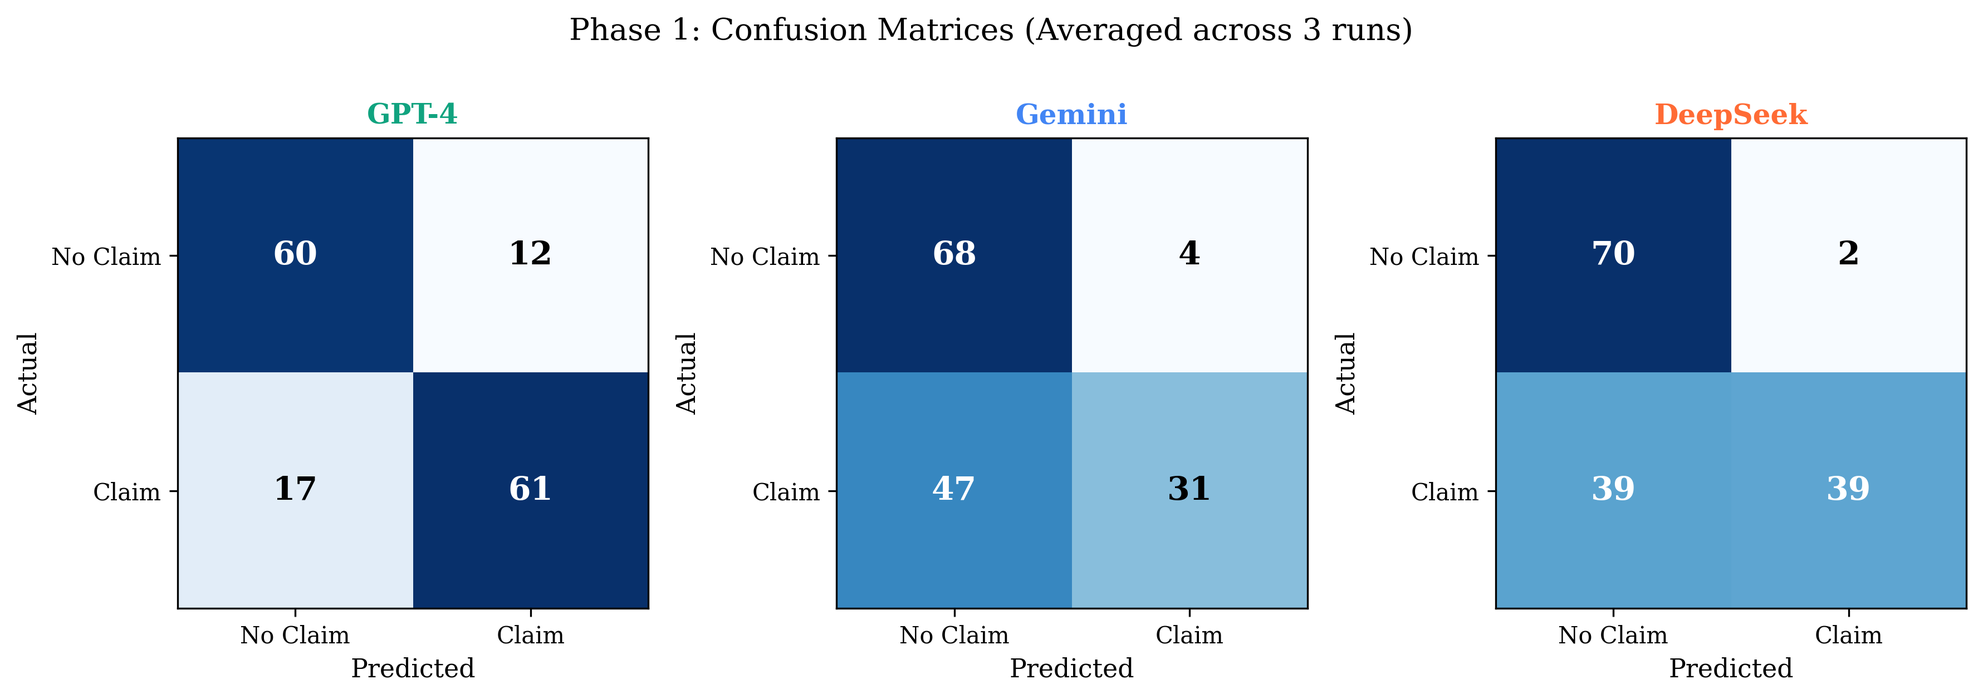
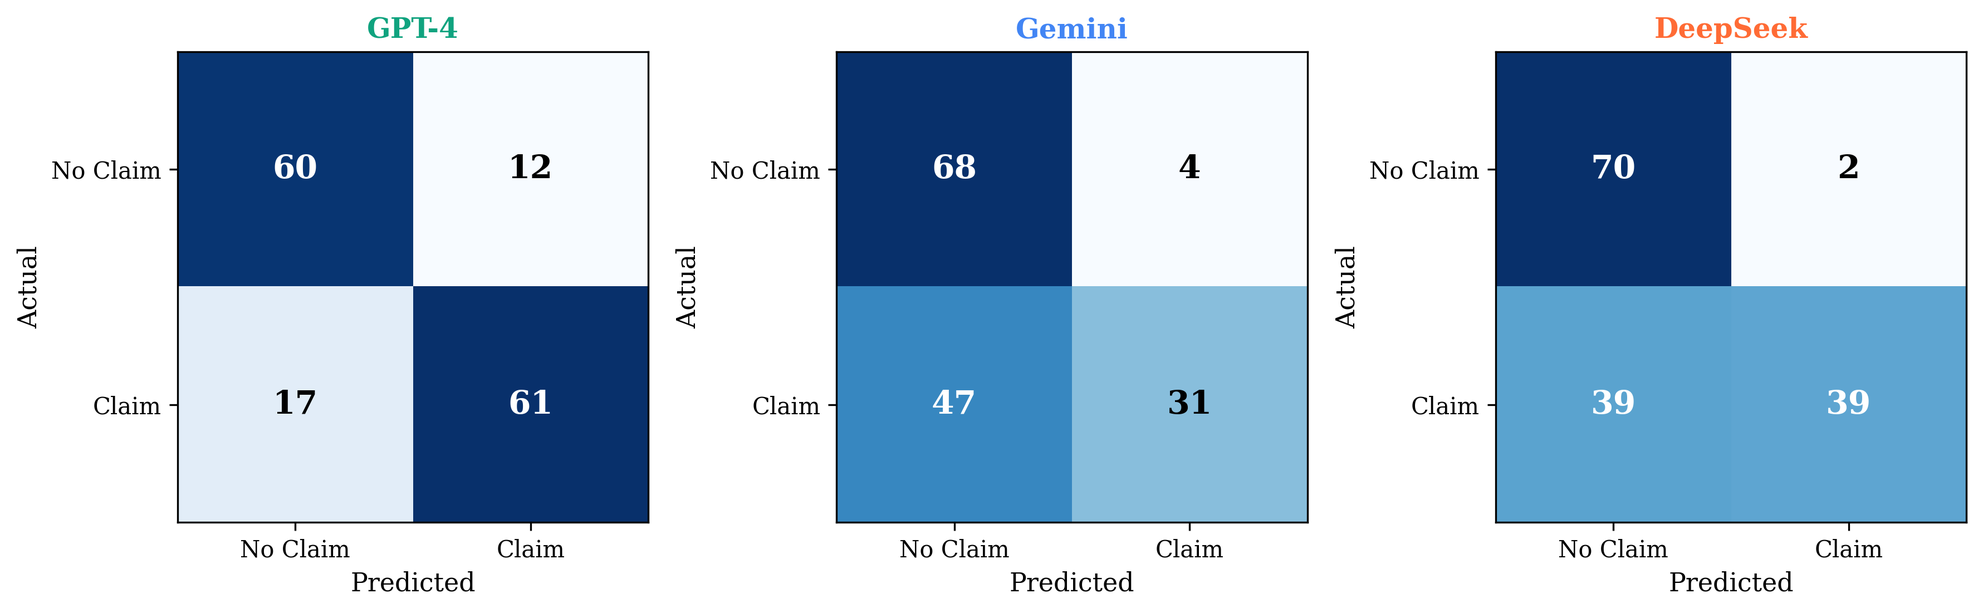
Update thesis abstract and figures; add reliability analysis visualizations for extraction and verification phases

diff --git a/thesis.tex b/thesis.tex
@@ -68,8 +68,11 @@
 % --- Abstract / Acknowledgements ---
 
 \begin{abstract}
-    % A brief, one-paragraph summary of the entire thesis.
-    % will write this last.
+Large Language Models (LLMs) have transformed natural language processing, yet their tendency to generate factually incorrect information---known as hallucination---poses significant risks for applications requiring factual accuracy. This thesis presents a comparative analysis of three state-of-the-art LLMs (GPT-4, Gemini, and DeepSeek) within the TruthLens framework, a decoupled two-phase architecture for automated fact-checking that separates claim extraction from search-augmented verification.
+
+Using the BingCheck dataset, we evaluated model performance across 1,950 API calls: $N=150$ sentences for extraction ($k=3$ runs) and $N=100$ claims for verification ($k=2$ runs). The results reveal distinct behavioral patterns. For claim extraction, GPT-4 achieves the highest F1-Score (80.4\%) through a balanced precision-recall strategy, while Gemini and DeepSeek adopt conservative approaches with high precision (89.5\% and 95.8\%) but significantly reduced recall (40.2\% and 49.6\%). For verification, Gemini achieves the highest accuracy (82.0\%), DeepSeek the highest Macro-F1 (55.9\%), and GPT-4 the most deterministic outputs. All models struggle with minority class identification, with a 25--30 percentage point gap between accuracy and Macro-F1 scores.
+
+Qualitative analysis identifies three primary failure modes: over-filtering of context-dependent claims, search query quality limitations, and class imbalance sensitivity. Despite these challenges, the models achieve 69\% unanimous correctness on verification tasks, demonstrating that LLM-based fact-checking has reached practical reliability for straightforward factual claims. This work contributes a reusable multi-model framework, empirical performance benchmarks, and guidance for deploying LLM-based fact-checking systems in real-world applications.
 \end{abstract}
 
 \clearpage
@@ -682,13 +685,13 @@ Figure \ref{fig:confusion_matrices} presents the averaged confusion matrices acr
 
 \subsection{Reliability Analysis Across Multiple Runs}
 
-To assess the stability of each model's performance, Figure \ref{fig:reliability} presents box plots showing the distribution of F1-scores across experimental runs.
+To assess the stability of each model's extraction performance, Figure \ref{fig:extraction_reliability} presents box plots showing the distribution of F1-scores across experimental runs.
 
 \begin{figure}[H]
     \centering
-    \includegraphics[width=0.95\textwidth]{images/fig_reliability_analysis.png}
-    \caption{Run-to-run variability for extraction (left, $k=3$) and verification (right, $k=2$). GPT-4 demonstrates the most consistent performance across runs.}
-    \label{fig:reliability}
+    \includegraphics[width=0.7\textwidth]{images/fig_extraction_reliability.png}
+    \caption{Run-to-run variability for extraction phase ($k=3$ runs). GPT-4 demonstrates the most consistent performance with minimal variance.}
+    \label{fig:extraction_reliability}
 \end{figure}
 
 GPT-4 demonstrates the most stable performance with the smallest standard deviation ($\pm$1.5\% for F1-Score), while DeepSeek exhibits the highest variability ($\pm$4.6\%). This variability in DeepSeek's performance may be attributed to its less deterministic response patterns when processing ambiguous sentences.
@@ -728,7 +731,7 @@ Figure \ref{fig:per_class_heatmap} visualizes this class-dependent performance d
 
 \begin{figure}[H]
     \centering
-    \includegraphics[width=0.75\textwidth]{images/fig_per_class_f1_heatmap.png}
+    \includegraphics[width=0.85\textwidth]{images/fig_per_class_f1_heatmap.png}
     \caption{Per-class F1-scores for verification. The heatmap reveals consistently poor performance on minority classes (Refuted: $n=3$, Insufficient: $n=12$) compared to the majority class (Supported: $n=85$).}
     \label{fig:per_class_heatmap}
 \end{figure}
@@ -765,6 +768,19 @@ To assess whether models converge on similar verdicts (potentially indicating ``
 \end{itemize}
 
 The 29\% of claims where models disagree represent ``ambiguous'' cases that warrant qualitative analysis (see Chapter \ref{ch:discussion}).
+
+\subsection{Reliability Analysis Across Multiple Runs}
+
+To assess the stability of each model's verification performance, Figure \ref{fig:verification_reliability} presents box plots showing the distribution of accuracy scores across experimental runs.
+
+\begin{figure}[H]
+    \centering
+    \includegraphics[width=0.7\textwidth]{images/fig_verification_reliability.png}
+    \caption{Run-to-run variability for verification phase ($k=2$ runs). GPT-4 produces identical results across runs, while DeepSeek shows the highest variability.}
+    \label{fig:verification_reliability}
+\end{figure}
+
+GPT-4 demonstrates perfect consistency with 0.0\% standard deviation in accuracy, producing identical verdicts across independent runs. Gemini shows moderate variability ($\pm$1.4\%), while DeepSeek exhibits the highest variability ($\pm$2.1\%). This pattern mirrors the extraction phase results, confirming that GPT-4 is the most deterministic model across both tasks.
 
 \section{Summary of Key Findings}
 \label{sec:key_findings}
@@ -931,13 +947,118 @@ While $N=150$ sentences for extraction and $N=100$ claims for verification provi
 
 \chapter{Conclusion and Future Work}
 \label{ch:conclusion}
-    \section{Summary of Findings}
-        \subsection{Answering Research Question 1 (Extraction)}
-        \subsection{Answering Research Question 2 (Verification)}
-        \subsection{Answering Research Question 3 (Qualitative)}
-    \section{Future Work}
-        \subsection{Scaling the Experiment}
-        \subsection{Evaluating Other Agent Architectures}
+
+This thesis presented a comparative analysis of three Large Language Models---GPT-4, Gemini, and DeepSeek---within the TruthLens framework for automated fact-checking. Through rigorous experimentation across 1,950 API calls, we evaluated model performance on both claim extraction and verification tasks. This chapter summarizes the key findings, articulates the contributions of this work, offers practical guidance for deployment, and outlines directions for future research.
+
+\section{Summary of Findings}
+
+The experimental results provide clear answers to the three research questions posed in Chapter \ref{ch:introduction}.
+
+\subsection{Answering Research Question 1 (Extraction)}
+
+\textbf{RQ1:} \textit{Which LLM most accurately identifies verifiable factual claims from text at the sentence level?}
+
+\textbf{Answer: GPT-4} emerges as the most effective model for claim extraction, achieving an F1-Score of \textbf{80.4\%} compared to 55.4\% (Gemini) and 65.3\% (DeepSeek).
+
+The critical distinction lies in extraction strategy. GPT-4 adopts a \textit{balanced approach}, achieving 83.1\% precision and 77.8\% recall---correctly identifying approximately 8 out of 10 factual claims while maintaining high precision. In contrast, Gemini and DeepSeek employ a \textit{conservative strategy}, achieving exceptionally high precision (89.5\% and 95.8\% respectively) but at severe cost to recall (40.2\% and 49.6\%). These models fail to identify approximately half of all factual claims present in the input text.
+
+For fact-checking pipelines where \textit{comprehensive coverage} is the priority, GPT-4 is the clear choice. The conservative models may be appropriate only in specialized contexts where false positives carry higher costs than missed claims.
+
+\subsection{Answering Research Question 2 (Verification)}
+
+\textbf{RQ2:} \textit{Which LLM most accurately assesses the veracity of identified claims when provided with claims?}
+
+\textbf{Answer:} The verification phase presents a nuanced picture depending on the evaluation metric:
+
+\begin{itemize}
+    \item \textbf{Gemini} achieves the highest accuracy (\textbf{82.0\%}), making it the optimal choice when overall correctness on representative datasets is the primary concern.
+    \item \textbf{DeepSeek} achieves the highest Macro-F1 (\textbf{55.9\%}), indicating superior balanced performance across all verdict categories, including minority classes.
+    \item \textbf{GPT-4} demonstrates the highest determinism (0.0\% standard deviation), producing identical results across independent runs.
+\end{itemize}
+
+The substantial gap between accuracy (77--82\%) and Macro-F1 (50--56\%) across all models reveals a fundamental challenge: all LLMs struggle with minority class identification. Performance on the \textit{Supported} class (F1 $\approx$ 87--91\%) significantly exceeds performance on \textit{Refuted} (F1 $\approx$ 35--40\%) and \textit{Insufficient Information} (F1 $\approx$ 28--41\%). This reflects the inherent difficulty of detecting misinformation and recognizing evidential insufficiency compared to confirming supported claims.
+
+\subsection{Answering Research Question 3 (Qualitative)}
+
+\textbf{RQ3:} \textit{What are the common failure modes in LLM-based fact-checking?}
+
+The qualitative error analysis identified three primary failure patterns:
+
+\textbf{1. Over-Filtering in Extraction:} Gemini and DeepSeek frequently rejected context-dependent claims containing demonstrative pronouns (``This process...'', ``These results...''), despite containing verifiable information. This conservative behavior contributed to their low recall scores.
+
+\textbf{2. Search Query Quality:} Verification failures often originated in the search phase rather than the reasoning phase. Poorly-phrased or overly-specific search queries led to irrelevant evidence retrieval, subsequently causing incorrect verdicts. Claims lacking sufficient context (e.g., references to ``the structure'' without specifying which structure) were particularly problematic.
+
+\textbf{3. Class Imbalance Sensitivity:} All models exhibited bias toward the majority class (\textit{Supported}), frequently returning over-cautious \textit{Insufficient Information} verdicts for claims that were actually supported. DeepSeek showed this pattern most prominently (18\% of claims), while Gemini was least affected (2\%).
+
+Despite these challenges, the models achieved 69\% unanimous correctness across all verification cases, demonstrating that for straightforward factual claims with clear web evidence, LLM-based verification has reached a level of reliability suitable for practical deployment.
+
+\section{Contributions}
+
+This thesis makes three primary contributions to the field of automated fact-checking:
+
+\textbf{1. Framework Adaptation and Extension:} We adapted the open-source ClaimeAI repository into the TruthLens framework, extending it to support multi-model comparative analysis. The engineering contributions include a unified LLM abstraction layer implementing the Strategy Pattern, custom middleware for DeepSeek's structured output requirements, and integration of the cost-effective Brave Search API for large-scale benchmarking.
+
+\textbf{2. Empirical Comparative Analysis:} We conducted the first systematic comparison of GPT-4, Gemini, and DeepSeek within a decoupled two-phase fact-checking architecture. The experimental design---with $k=3$ runs for extraction and $k=2$ runs for verification across 1,950 total API calls---provides statistically reliable performance estimates with quantified variability. The results establish clear performance hierarchies: GPT-4 for extraction (balanced precision-recall), Gemini for verification accuracy, and DeepSeek for balanced multi-class verification.
+
+\textbf{3. Methodological Contribution:} We demonstrated the value of decoupled evaluation in diagnosing LLM capabilities. By separating extraction from verification, we identified that the same model can exhibit different behavioral patterns across tasks (e.g., DeepSeek's conservative extraction correlates with cautious verification). This granular analysis would be impossible with monolithic end-to-end evaluation approaches.
+
+\section{Practical Implications}
+
+Based on the empirical findings, we offer the following guidance for practitioners deploying LLM-based fact-checking systems:
+
+\textbf{Model Selection by Use Case:}
+\begin{itemize}
+    \item \textbf{High-Coverage Fact-Checking:} Use GPT-4 for extraction to maximize claim identification (77.8\% recall), accepting moderate false positives.
+    \item \textbf{High-Precision Applications:} Use Gemini or DeepSeek for extraction when false positives are costly, understanding that approximately half of factual claims will be missed.
+    \item \textbf{Verification Tasks:} Use Gemini for highest overall accuracy (82.0\%) on representative datasets, or DeepSeek when balanced performance across verdict categories is required.
+\end{itemize}
+
+\textbf{Stability Considerations:} GPT-4 offers the most deterministic outputs ($\pm$0.0\% accuracy SD), making it suitable for applications requiring reproducible results. DeepSeek's higher variability ($\pm$4.6\% extraction F1 SD) suggests it may require additional engineering effort (e.g., ensemble approaches or multiple inference passes) to achieve production-level consistency.
+
+\textbf{Cost-Accuracy Trade-offs:} Open-weights models like DeepSeek offer competitive performance at reduced API costs compared to proprietary alternatives. For budget-constrained deployments, DeepSeek provides a viable option, particularly for verification tasks where its Macro-F1 performance exceeds the other models.
+
+\section{Future Work}
+
+The findings of this thesis suggest several promising directions for future research:
+
+\subsection{Alternative Search Providers}
+
+This study exclusively utilized the Brave Search API due to budget constraints. Future work should investigate the impact of different search providers on verification accuracy:
+\begin{itemize}
+    \item \textbf{Neural Search APIs} (Exa, Tavily) may retrieve more semantically relevant evidence compared to keyword-based approaches.
+    \item \textbf{Major Search Engines} (Google, Bing) offer broader web coverage but at higher cost and with different result ranking algorithms.
+\end{itemize}
+A systematic comparison across search providers would isolate the contribution of evidence retrieval quality to overall verification performance.
+
+\subsection{Multi-Agent Consensus Architectures}
+
+A significant limitation of the current architecture is single-agent decision-making. Future work should explore \textbf{multi-agent consensus mechanisms}:
+\begin{itemize}
+    \item \textbf{Judge Agents:} Introducing a separate LLM to review and validate the decisions of the extraction and verification agents before finalizing outputs.
+    \item \textbf{Unanimous Decision Requirements:} Requiring agreement across multiple independent agents before accepting a verdict, similar to ensemble methods in machine learning.
+    \item \textbf{Adversarial Review:} Implementing agents that specifically attempt to refute or challenge preliminary verdicts, forcing more rigorous evidence evaluation.
+\end{itemize}
+While these approaches increase computational cost and API expenses, they may substantially improve accuracy and reliability---particularly for the minority classes where current models struggle.
+
+\subsection{Real-World Deployment and User Studies}
+
+The ultimate test of any fact-checking system is its utility to real users. Future work should include:
+\begin{itemize}
+    \item \textbf{Browser Extension Deployment:} The TruthLens framework already includes a prototype browser extension. Deploying this to real users would provide invaluable feedback on practical usability, latency requirements, and explanation quality.
+    \item \textbf{User Trust Studies:} Investigating how users perceive and interact with LLM-generated fact-checking verdicts, including how explanation quality affects user trust.
+    \item \textbf{Iterative UX Refinement:} Using real-world feedback to guide interface improvements, determining how to present verdicts, confidence scores, and evidence sources in ways that users find helpful and actionable.
+\end{itemize}
+Such studies would inform the productization of LLM-based fact-checking tools and identify the gap between technical performance metrics and genuine user benefit.
+
+\section{Closing Remarks}
+
+The rise of Large Language Models has created both the problem and the potential solution for automated fact-checking. These models generate fluent but sometimes factually incorrect content at unprecedented scale, yet they also possess the reasoning capabilities to verify claims against external evidence.
+
+This thesis demonstrates that current LLMs, when deployed within a structured agentic framework, can achieve human-comparable performance on straightforward factual claims. GPT-4's 80.4\% extraction F1 and Gemini's 82.0\% verification accuracy represent meaningful progress toward reliable automated fact-checking.
+
+However, significant challenges remain. The struggle with minority classes, the sensitivity to search query quality, and the 31\% of claims where models disagree all indicate that LLM-based fact-checking is not yet ready to operate without human oversight. The path forward lies in hybrid systems that leverage LLM capabilities while acknowledging their limitations---using multi-agent architectures, diverse evidence sources, and human-in-the-loop validation for high-stakes decisions.
+
+As misinformation continues to proliferate in the digital information ecosystem, the development of trustworthy, transparent, and accessible fact-checking tools becomes increasingly critical. This thesis contributes a step toward that goal, providing both empirical evidence of current capabilities and a foundation for future improvements.
 
 % --- Appendices ---
 \appendix

diff --git a/visualization_scripts/generate_all_figures.py b/visualization_scripts/generate_all_figures.py
@@ -158,7 +158,7 @@ def figure_extraction_f1_comparison(ext_data):
     
     ax.set_ylabel("F1-Score (%)")
     ax.set_xlabel("Model")
-    ax.set_title("Phase 1: Claim Extraction F1-Score Comparison")
+    # No title - use LaTeX caption instead
     ax.set_xticks(x)
     ax.set_xticklabels([MODEL_LABELS[m] for m in models])
     ax.set_ylim(0, 100)
@@ -215,7 +215,7 @@ def figure_precision_recall_tradeoff(ext_data):
     
     ax.set_xlabel("Recall (%)")
     ax.set_ylabel("Precision (%)")
-    ax.set_title("Phase 1: Precision-Recall Trade-off for Claim Extraction")
+    # No title - use LaTeX caption instead
     ax.set_xlim(30, 100)
     ax.set_ylim(75, 100)
     ax.legend(loc="lower left")
@@ -277,7 +277,7 @@ def figure_verification_accuracy(ver_data):
     
     ax.set_ylabel("Score (%)")
     ax.set_xlabel("Model")
-    ax.set_title("Phase 2: Claim Verification Performance")
+    # No title - use LaTeX caption instead
     ax.set_xticks(x)
     ax.set_xticklabels([MODEL_LABELS[m] for m in models])
     ax.set_ylim(0, 100)
@@ -330,15 +330,14 @@ def figure_per_class_f1_heatmap(ver_per_run):
     ax.set_xticklabels(["Supported\n(n=85)", "Refuted\n(n=3)", "Insufficient\n(n=12)"])
     ax.set_yticklabels([MODEL_LABELS[m] for m in models])
     
-    # Add text annotations
+    # Add text annotations - always use black for readability
     for i in range(len(models)):
         for j in range(len(classes)):
             val = data[i, j]
-            text_color = "white" if val < 50 else "black"
             ax.text(j, i, f"{val:.1f}%", ha="center", va="center", 
-                    color=text_color, fontsize=11, fontweight="bold")
+                    color="black", fontsize=11, fontweight="bold")
     
-    ax.set_title("Phase 2: Per-Class F1-Score for Verification")
+    # No title - use LaTeX caption instead
     ax.set_xlabel("Verdict Class (with ground truth support)")
     
     plt.tight_layout()
@@ -390,10 +389,11 @@ def figure_extraction_confusion_matrix(ext_per_run):
         ax.set_yticklabels(["No Claim", "Claim"])
         ax.set_xlabel("Predicted")
         ax.set_ylabel("Actual")
+        # Model name as subplot label (not a title)
         ax.set_title(MODEL_LABELS[model], fontsize=12, fontweight="bold",
                      color=COLORS[model])
     
-    fig.suptitle("Phase 1: Confusion Matrices (Averaged across 3 runs)", y=1.02)
+    # No suptitle - use LaTeX caption instead
     plt.tight_layout()
     fig.savefig(OUTPUT_DIR / "fig_extraction_confusion_matrices.pdf")
     fig.savefig(OUTPUT_DIR / "fig_extraction_confusion_matrices.png")
@@ -402,13 +402,95 @@ def figure_extraction_confusion_matrix(ext_per_run):
 
 
 # ==============================================================================
-# FIGURE 6: RELIABILITY ANALYSIS (Run-to-Run Variability)
+# FIGURE 6a: EXTRACTION RELIABILITY ANALYSIS (Run-to-Run Variability)
+# ==============================================================================
+
+def figure_extraction_reliability(ext_per_run):
+    """
+    Box plot showing run-to-run variability for extraction F1-scores.
+    Demonstrates consistency across multiple experimental runs.
+    """
+    fig, ax = plt.subplots(figsize=(7, 5))
+    
+    models = ["gpt4", "gemini", "deepseek"]
+    
+    data_ext = []
+    positions = []
+    colors = []
+    for i, model in enumerate(models):
+        model_data = ext_per_run[ext_per_run["provider"] == model]["f1_score"] * 100
+        data_ext.append(model_data.values)
+        positions.append(i)
+        colors.append(COLORS[model])
+    
+    bp = ax.boxplot(data_ext, positions=positions, widths=0.6, patch_artist=True)
+    for patch, color in zip(bp["boxes"], colors):
+        patch.set_facecolor(color)
+        patch.set_alpha(0.7)
+    
+    ax.set_xticklabels([MODEL_LABELS[m] for m in models])
+    ax.set_ylabel("F1-Score (%)")
+    # No title - use LaTeX caption instead
+    ax.grid(axis="y", alpha=0.3, linestyle="--")
+    ax.set_ylim(40, 90)
+    
+    plt.tight_layout()
+    fig.savefig(OUTPUT_DIR / "fig_extraction_reliability.pdf")
+    fig.savefig(OUTPUT_DIR / "fig_extraction_reliability.png")
+    plt.close(fig)
+    print("✓ Generated: fig_extraction_reliability.pdf")
+
+
+# ==============================================================================
+# FIGURE 6b: VERIFICATION RELIABILITY ANALYSIS (Run-to-Run Variability)
+# ==============================================================================
+
+def figure_verification_reliability(ver_per_run):
+    """
+    Box plot showing run-to-run variability for verification accuracy.
+    Demonstrates consistency across multiple experimental runs.
+    """
+    fig, ax = plt.subplots(figsize=(7, 5))
+    
+    models = ["gpt4", "gemini", "deepseek"]
+    
+    data_ver = []
+    positions = []
+    colors = []
+    for i, model in enumerate(models):
+        model_data = ver_per_run[ver_per_run["provider"] == model]["accuracy"] * 100
+        data_ver.append(model_data.values)
+        positions.append(i)
+        colors.append(COLORS[model])
+    
+    bp = ax.boxplot(data_ver, positions=positions, widths=0.6, patch_artist=True)
+    for patch, color in zip(bp["boxes"], colors):
+        patch.set_facecolor(color)
+        patch.set_alpha(0.7)
+    
+    ax.set_xticklabels([MODEL_LABELS[m] for m in models])
+    ax.set_ylabel("Accuracy (%)")
+    # No title - use LaTeX caption instead
+    ax.grid(axis="y", alpha=0.3, linestyle="--")
+    ax.set_ylim(70, 90)
+    
+    plt.tight_layout()
+    fig.savefig(OUTPUT_DIR / "fig_verification_reliability.pdf")
+    fig.savefig(OUTPUT_DIR / "fig_verification_reliability.png")
+    plt.close(fig)
+    print("✓ Generated: fig_verification_reliability.pdf")
+
+
+# ==============================================================================
+# FIGURE 6 (LEGACY): COMBINED RELIABILITY ANALYSIS - kept for reference
 # ==============================================================================
 
 def figure_reliability_analysis(ext_per_run, ver_per_run):
     """
     Box plots showing run-to-run variability for key metrics.
     Demonstrates consistency across multiple experimental runs.
+    NOTE: This combined figure is kept for backward compatibility.
+    Use figure_extraction_reliability and figure_verification_reliability instead.
     """
     fig, axes = plt.subplots(1, 2, figsize=(12, 5))
     
@@ -458,7 +540,7 @@ def figure_reliability_analysis(ext_per_run, ver_per_run):
     fig.savefig(OUTPUT_DIR / "fig_reliability_analysis.pdf")
     fig.savefig(OUTPUT_DIR / "fig_reliability_analysis.png")
     plt.close(fig)
-    print("✓ Generated: fig_reliability_analysis.pdf")
+    print("✓ Generated: fig_reliability_analysis.pdf (combined - legacy)")
 
 
 # ==============================================================================
@@ -504,7 +586,7 @@ def figure_radar_comparison(ext_data, ver_data):
     ax.set_yticks([20, 40, 60, 80, 100])
     ax.set_yticklabels(["20%", "40%", "60%", "80%", "100%"], size=8)
     ax.legend(loc="upper right", bbox_to_anchor=(1.15, 1.1))
-    ax.set_title("Overall Model Comparison", y=1.08)
+    # No title - use LaTeX caption instead
     
     plt.tight_layout()
     fig.savefig(OUTPUT_DIR / "fig_radar_comparison.pdf")
@@ -537,7 +619,7 @@ def figure_inter_model_agreement():
                     va="center", fontsize=11, fontweight="bold")
     
     ax.set_xlabel("Agreement Rate (%)")
-    ax.set_title("Phase 2: Inter-Model Agreement on Verification Verdicts")
+    # No title - use LaTeX caption instead
     ax.set_xlim(0, 100)
     ax.grid(axis="x", alpha=0.3, linestyle="--")
     
@@ -586,7 +668,9 @@ def main():
     figure_verification_accuracy(ver_data)
     figure_per_class_f1_heatmap(ver_per_run)
     figure_extraction_confusion_matrix(ext_per_run)
-    figure_reliability_analysis(ext_per_run, ver_per_run)
+    figure_extraction_reliability(ext_per_run)        # NEW: Extraction only
+    figure_verification_reliability(ver_per_run)      # NEW: Verification only
+    figure_reliability_analysis(ext_per_run, ver_per_run)  # Legacy combined
     figure_radar_comparison(ext_data, ver_data)
     figure_inter_model_agreement()
     
